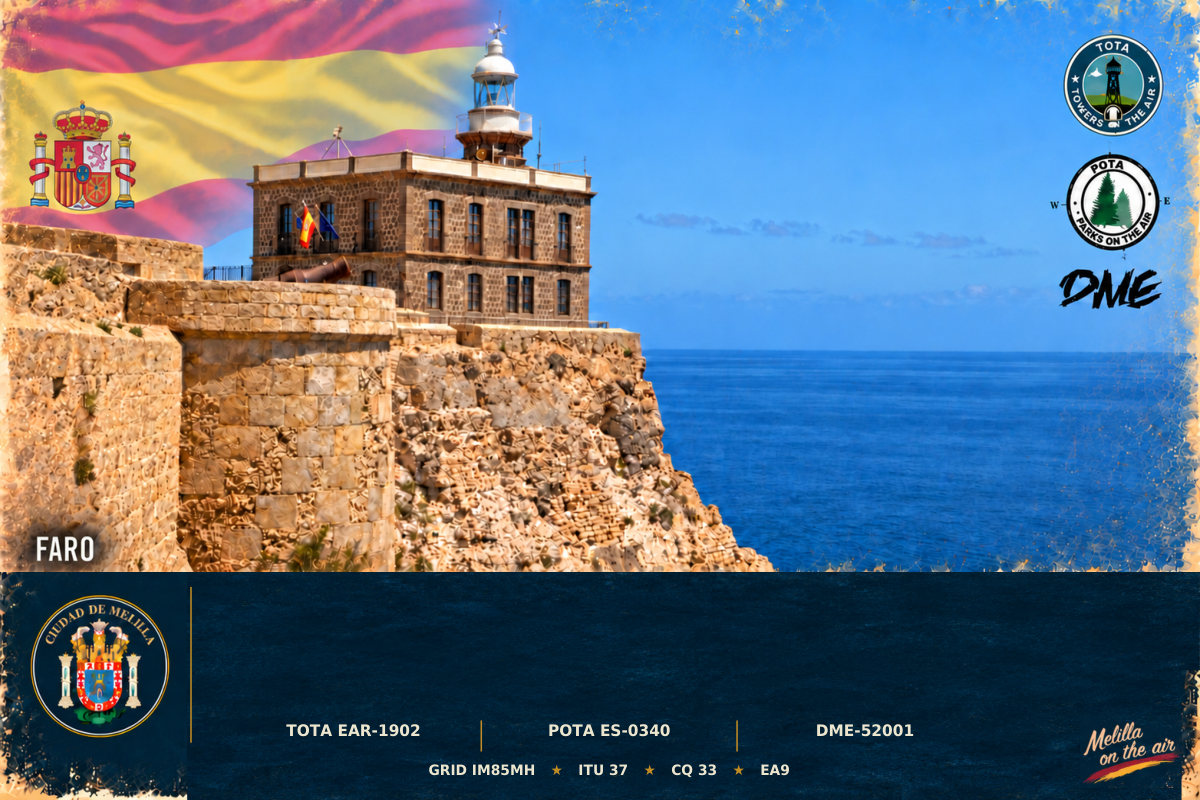
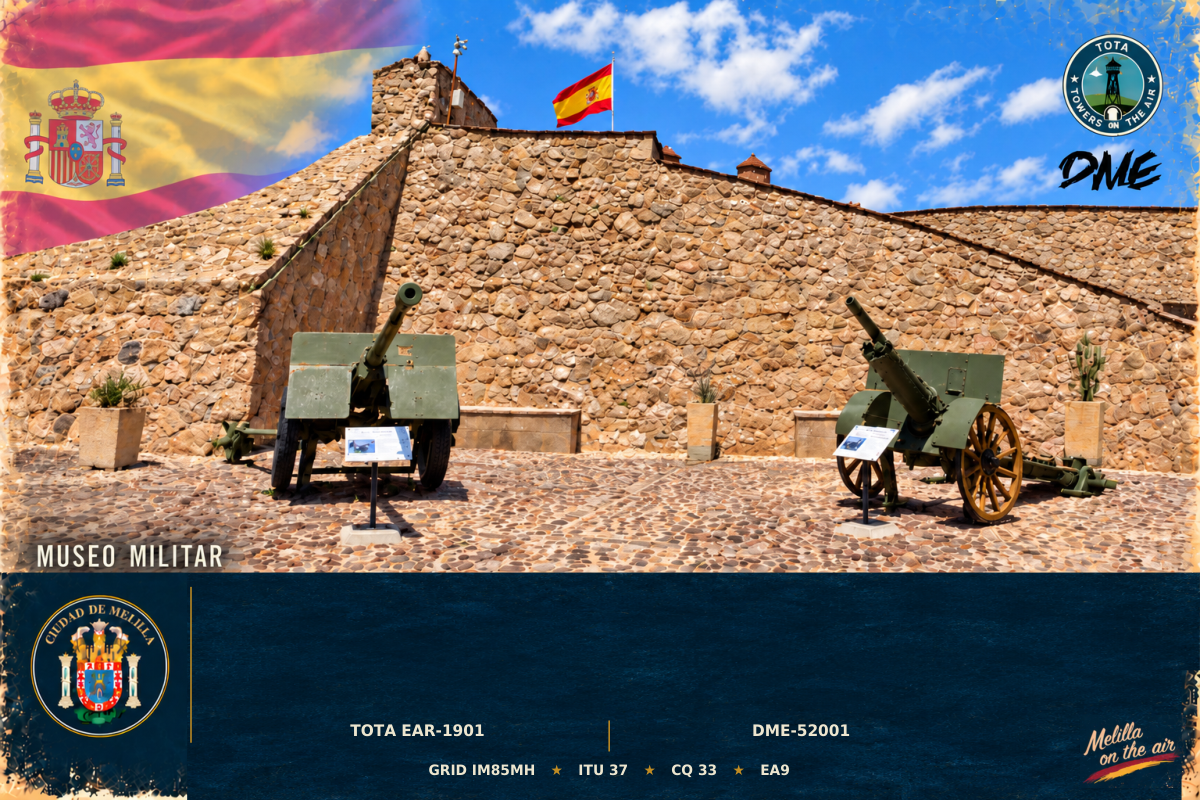
qsl80: originante EG9MM, 3 contactos en Melilla y fondo de qsl1

diff --git a/qsl_generator.py b/qsl_generator.py
@@ -51,7 +51,8 @@ ACT6_RECORD_DATE = '2026-11-15'
 
 # Estaciones que pueden originar una QSL (campo OPERATOR del ADI, o su
 # sustituto STATION_CALLSIGN). El CALL de cada contacto es la destinataria.
-ALLOWED_OPERATORS = {'EA4HUK', 'EA4GHH', 'EA3JAQ', 'EA4IWX'}
+# EG9MM es el indicativo especial de la actividad qsl80 (QSO en 80 m).
+ALLOWED_OPERATORS = {'EA4HUK', 'EA4GHH', 'EA3JAQ', 'EA4IWX', 'EG9MM'}
 
 
 def originating_station(qso):

diff --git a/README.md b/README.md
@@ -125,11 +125,14 @@ postales generadas.
   (el generador solo lee `qslN/*.adi`).
 - ✅ Los `.adi` reales ya están incorporados: se procesan los 36 de las carpetas de
   actividad. `QSL-DEMO-EG9MM.adi` es relleno, no un sustituto de los datos reales (§1.1).
-- ℹ **`qsl80/` es una actividad nueva e independiente** (QSO en 80 m): 1 `.adi`
-  (`QSL80m.adi`, 15 contactos) y fondo `QSL-80.png`, copia de `qsl2/QSL-2.png`.
-  `qsl_generator.py` la procesa igual que qsl1–qsl7 y produce 15 postales en
-  `qsl80/QSLS/`. **Es solo local**: todavía no está en `qsl_index.json` ni se
-  sincroniza a Drive, porque sus entradas no tienen ID de Drive asignado.
+- ℹ **`qsl80/` es una actividad nueva e independiente** (QSO en 80 m desde Melilla):
+  1 `.adi` (`QSL80m.adi`, 18 contactos) y fondo `QSL-80.png`, copia de
+  `qsl1/QSL-1.png`. El originante de todas las postales es `EG9MM` (campo
+  `OPERATOR`/`STATION_CALLSIGN`), incluidos los tres contactos locales
+  (`EA4HUK`, `EA4IWX`, `EA3JAQ`, grid `IM85mh`, a ~100 m). `qsl_generator.py` la
+  procesa igual que qsl1–qsl7 y produce 18 postales en `qsl80/QSLS/`.
+  **Es solo local**: todavía no está en `qsl_index.json` ni se sincroniza a Drive,
+  porque sus entradas no tienen ID de Drive asignado.
 - ✅ **Proceso de ADI por actividad:** `./generar_adis.sh` genera en `qslN/ACTIVIDADES/`
   un `.adi` por actividad (TOTA/POTA/LLOTA) para subirlos a sus webs. Documentado en
   `README-ACTIVIDADES.md`. Solo procesa `qsl1`–`qsl5`.
@@ -548,7 +551,7 @@ ia-qsls/
 ├── qsl5/  QSL-5.png + 8 .adi (852 QSO) + ACTIVIDADES/ + QSLS/ (852 PNG) + qsl_log.json
 ├── qsl6/  f6.png + (sin .adi) + QSLS/ (43 PNG de record, se regeneran siempre)
 ├── qsl7/  f7.png + 4 .adi (66 QSO) + QSLS/ (66 PNG) + qsl_log.json
-└── qsl80/ QSL-80.png + 1 .adi (15 QSO) + QSLS/ (15 PNG) + qsl_log.json  [solo local]
+└── qsl80/ QSL-80.png + 1 .adi (18 QSO) + QSLS/ (18 PNG) + qsl_log.json  [solo local]
 ```
 
 Notes sobre esta estructura:
